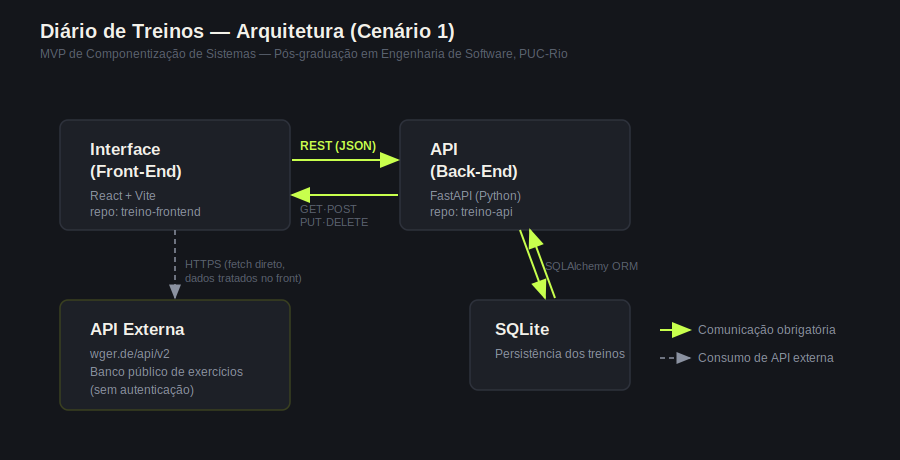
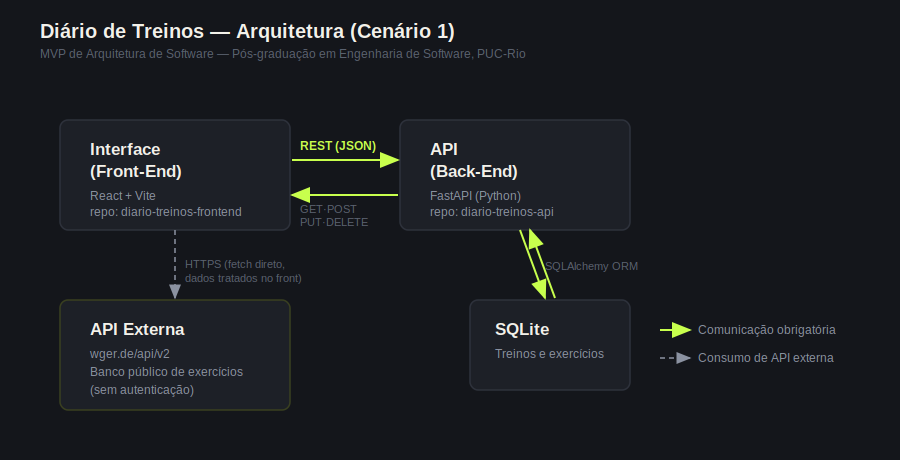
Correção: Readme e alteração da imagem arquitetura.png

diff --git a/README.md b/README.md
@@ -5,11 +5,11 @@ evolução: carga por exercício, volume semanal e equilíbrio entre grupos
 musculares.
 
 Este repositório é o componente **Interface (Front-End)** do MVP de
-Componentização de Sistemas (pós-graduação em Engenharia de Software,
+Arquitetura de Software (pós-graduação em Engenharia de Software,
 PUC-Rio), no **Cenário 1**: Interface (Front-End) ↔ API (Back-End) ↔
 SQLite, com a Interface consumindo também uma API externa de exercícios.
 
-Repositório irmão (Back-End): `treino-api`.
+Repositório irmão (Back-End): https://github.com/Gumeyohas/diario-treinos-api
 
 ## Arquitetura
 
@@ -17,7 +17,7 @@ Repositório irmão (Back-End): `treino-api`.
 
 A Interface, em **React (Vite)**, conversa com:
 
-1. A **API própria** (`treino-api`, FastAPI + SQLite): criar, listar, editar e
+1. A **API própria** (`diario-treinos-api`, FastAPI + SQLite): criar, listar, editar e
    excluir treinos, além das consultas de resumo semanal e evolução.
 2. A **API externa wger**: busca de exercícios para montar o treino.
 
@@ -71,20 +71,20 @@ está progredindo. O app responde:
 Pré-requisito: **Node.js 20.19+ ou 22+** (o Vite 8 não roda em versões anteriores).
 
 ```bash
-git clone (https://github.com/Gumeyohas/diario-treinos-frontend.git)
-cd treino-frontend
+git clone https://github.com/Gumeyohas/diario-treinos-frontend.git
+cd diario-treinos-frontend
 npm install
 cp .env.example .env     # ajuste VITE_API_URL se a API não estiver em localhost:8000
 npm run dev
 ```
 
-Acesse `http://localhost:5173`. A API (`treino-api`) precisa estar rodando.
+Acesse `http://localhost:5173`. A API ([diario-treinos-api](https://github.com/Gumeyohas/diario-treinos-api)) precisa estar rodando.
 
 ## Execução com Docker
 
 ```bash
-docker build -t treino-frontend --build-arg VITE_API_URL=http://localhost:8000 .
-docker run -p 5173:80 treino-frontend
+docker build -t diario-treinos-frontend --build-arg VITE_API_URL=http://localhost:8000 .
+docker run -p 5173:80 diario-treinos-frontend
 ```
 
 Acesse `http://localhost:5173`.
@@ -92,7 +92,7 @@ Acesse `http://localhost:5173`.
 ## Estrutura do projeto
 
 ```
-treino-frontend/
+diario-treinos-frontend/
 ├── src/
 │   ├── main.jsx                   # Entrada: router, provider do rascunho e estilos
 │   ├── App.jsx                    # Layout e rotas
